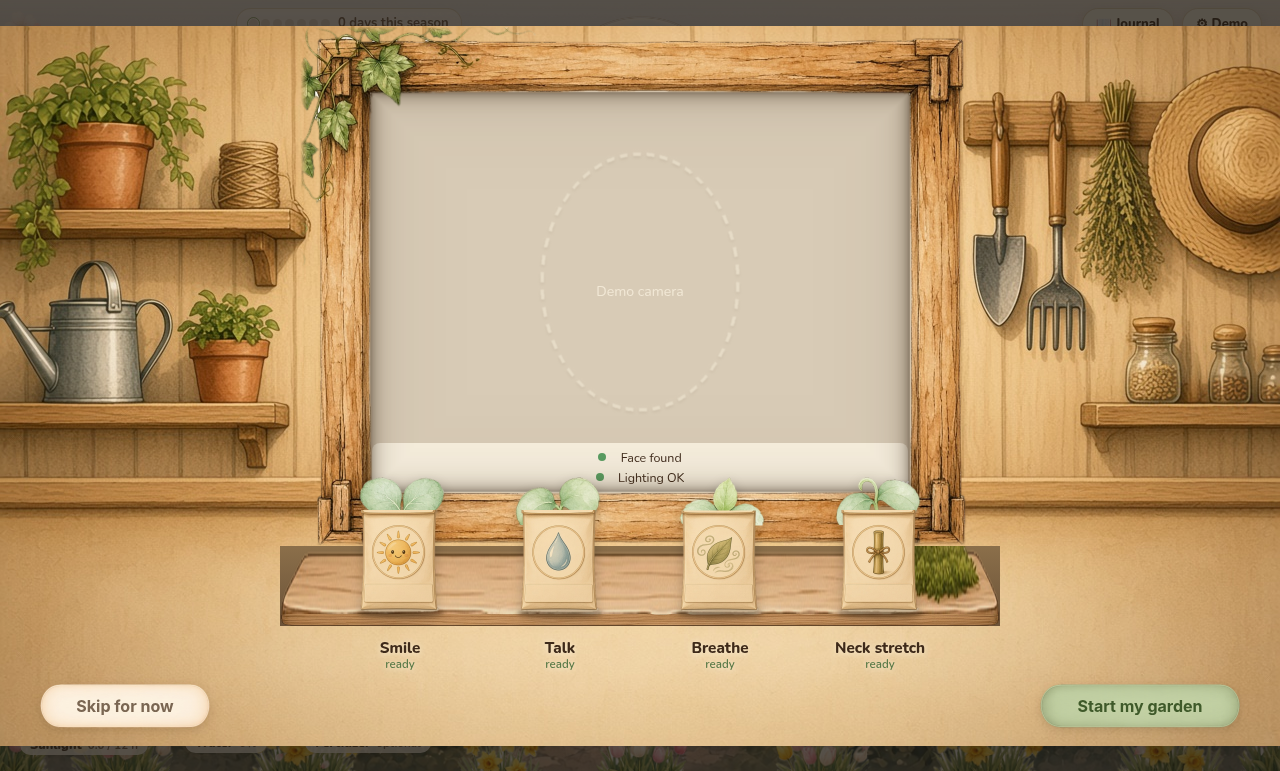
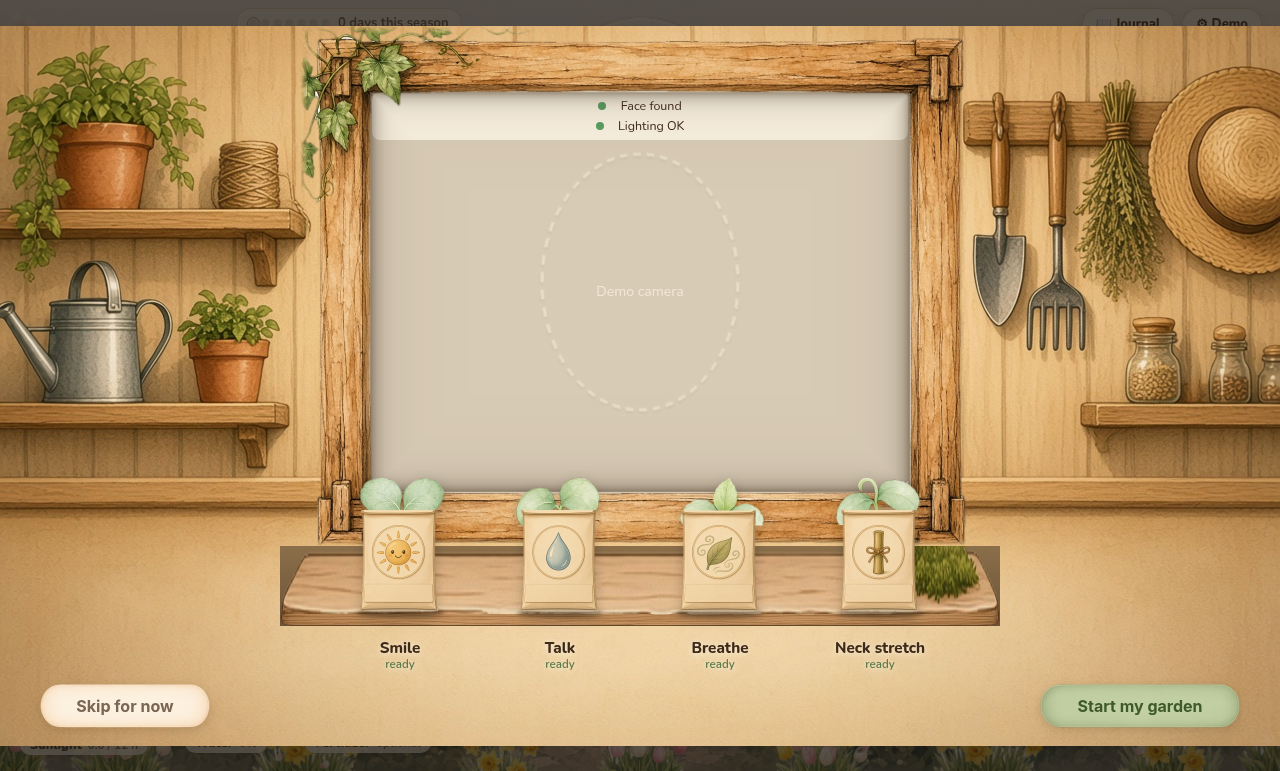
Polish camera-check denied flow, status placement, and listening glow
Denied state shows No camera (hides lighting), updated copy with Try again,
and a retry control that re-requests the camera. Status chip moves to the top
of the preview to clear packet sprouts; active packets use listening art with
a soft pulse instead of a box outline.

Changed region(s): [[0.2812, 0.5603, 0.7188, 0.6537], [0.2812, 0.0934, 0.7188, 0.1868]]

diff --git a/renderer/app.js b/renderer/app.js
@@ -20,7 +20,7 @@
         'meter-sun-val', 'meter-water-val', 'meter-fert-val', 'meter-stake-val', 'meter-sun-wrap', 'meter-water-wrap', 'meter-fert-wrap', 'meter-stake-wrap', 'step-panel', 'step-track',
         'ring-fg', 'ring-text', 'step-title', 'step-text', 'step-live', 'btn-skip', 'breath-guide', 'breath-orb', 'breath-halo', 'breath-word',
         'breath-sub', 'breath-rate', 'breath-count', 'stretch-guide', 'stretch-guide-box', 'stretch-sunflower', 'stretch-sunflower-stem', 'stretch-hint-left', 'stretch-hint-right', 'stretch-guide-full', 'stretch-ring', 'stretch-care-panel', 'stretch-care-title', 'stretch-care-text', 'stretch-care-live', 'stretch-care-actions', 'needs-card', 'needs-card-bg', 'needs-card-fallback', 'needs-plant-name', 'needs-rows', 'needs-bloom-stamp', 'needs-resting-stamp', 'needs-resting-fallback', 'btn-needs-done', 'idle-bar', 'idle-text', 'btn-plant-idle', 'btn-visit', 'btn-bed', 'day-chip-text', 'garden-clock', 'brand-logo-day', 'brand-logo-night', 'brand-fallback', 'plot-tip', 'float-layer', 'toast',
-        'screen-wellness', 'chk-adult', 'btn-wellness-ok', 'screen-camera-check', 'cc-stage', 'cc-backdrop', 'cc-window-frame', 'cc-sill', 'cc-face-outline', 'cc-tilt-left', 'cc-tilt-right', 'cc-note', 'cc-packets', 'cc-status-face', 'cc-status-light', 'cc-status-camera', 'cc-preview-wrap', 'cc-mock-slot', 'btn-cc-start', 'btn-cc-skip-now',
+        'screen-wellness', 'chk-adult', 'btn-wellness-ok', 'screen-camera-check', 'cc-stage', 'cc-backdrop', 'cc-window-frame', 'cc-sill', 'cc-face-outline', 'cc-tilt-left', 'cc-tilt-right', 'cc-note', 'cc-packets', 'cc-status-face', 'cc-status-light', 'cc-status-camera', 'cc-preview-wrap', 'cc-mock-slot', 'btn-cc-start', 'btn-cc-skip-now', 'btn-cc-retry',
         'screen-greeting', 'greet-date', 'greet-title', 'greet-status', 'plan-smile', 'plan-talk',
         'greet-note', 'btn-greet-plant', 'btn-begin', 'greet-fine', 'screen-picker', 'picker-target', 'seed-cards', 'btn-picker-close',
         'screen-summary', 'sum-card', 'sum-card-art', 'sum-date', 'sum-title', 'sum-sun', 'sum-water', 'sum-fert', 'sum-grew', 'sum-wait', 'sum-week', 'btn-sum-journal',
@@ -287,8 +287,13 @@
             els.stretchGuide.hidden = active !== 'stretch';
             if (active === 'breath') renderBreathRate();
             if (active === 'stretch') renderStretchHud();
-            CCUI.renderStatus(els.ccStatusFace, els.ccStatusLight, els.ccStatusCamera, snap);
+            CCUI.renderStatus(els.ccStatusFace, els.ccStatusLight, els.ccStatusCamera, snap, {
+                denied: cameraDeniedDemo || !!snap.cameraDenied || !!snap.noCamera,
+            });
             CCUI.renderPackets(els.ccPackets, snap, active, ART, artUrl, { denied: cameraDeniedDemo });
+            if (els.btnCcRetry) {
+                els.btnCcRetry.hidden = !(cameraDeniedDemo || snap.cameraDenied || snap.noCamera);
+            }
         }
         if (els.ccFaceOutline) {
             els.ccFaceOutline.classList.toggle('found', !!snap.faceFound);
@@ -346,6 +351,35 @@
         }
         if (source && source.setPhase) source.setPhase('camera-check-smile');
         renderCameraCheckUI(cameraCheckSession.update(0, buildCameraCheckInput()));
+    }
+
+    async function retryCameraCheck() {
+        if (!cameraCheckSession) return;
+        cameraDeniedDemo = false;
+        cameraCheckDemoLock = false;
+        signal.validation = 'Ok';
+        signal.faceGoneAt = 0;
+        const ok = await ensureSource();
+        if (!ok) {
+            cameraDeniedDemo = !config.mock;
+            renderCameraCheckUI(cameraCheckSession.update(0, buildCameraCheckInput()));
+            return;
+        }
+        try {
+            if (!sourceReady) {
+                await source.start();
+                sourceReady = true;
+            }
+            state.cameraCheckNote = null;
+            if (source.setPhase && cameraCheckSession.active) {
+                source.setPhase(`camera-check-${cameraCheckSession.active}`);
+            }
+            renderCameraCheckUI(cameraCheckSession.update(0, buildCameraCheckInput()));
+        } catch (e) {
+            CC.markCameraCheckRequired(state, `Camera could not start: ${e && e.message || e}`);
+            save();
+            renderCameraCheckUI(cameraCheckSession.update(0, buildCameraCheckInput()));
+        }
     }
 
     function finishCameraCheckFlow() {
@@ -2113,6 +2147,7 @@
     function ackWellness() { state.wellnessAck = true; save(); afterWellnessOrResume(); }
     if (els.btnCcStart) els.btnCcStart.addEventListener('click', finishCameraCheckFlow);
     if (els.btnCcSkipNow) els.btnCcSkipNow.addEventListener('click', finishCameraCheckFlow);
+    if (els.btnCcRetry) els.btnCcRetry.addEventListener('click', () => { void retryCameraCheck(); });
     els.btnGreetPlant.addEventListener('click', () => openPicker());
     els.btnBegin.addEventListener('click', beginVisit);
     els.btnPickerClose.addEventListener('click', closePicker);
@@ -2375,6 +2410,7 @@
         get stretchDemoSnap() { return stretchDemoSnap; },
         clock, gardenClock, nextDay, simulateDays, fillEmpty, setLightingOverride, openJournal, closeJournal, openPicker, closePicker, ackWellness: () => ackWellness(),
         openCameraCheck: () => openCameraCheck(),
+        retryCameraCheck: () => retryCameraCheck(),
         finishCameraCheck: () => finishCameraCheckFlow(),
         selectCameraCheck(key) {
             if (!cameraCheckSession || !key) return;

diff --git a/renderer/camera-check-ui.js b/renderer/camera-check-ui.js
@@ -135,11 +135,23 @@
         });
     }
 
-    function renderStatus(faceEl, lightEl, camEl, snap) {
-        faceEl.className = 'cc-status-row' + (snap.faceFound ? ' ok' : ' bad');
-        faceEl.innerHTML = '<span class="dot"></span><span>Face found</span>';
-        lightEl.className = 'cc-status-row' + (snap.lightingOk ? ' ok' : (snap.faceFound ? ' warn' : ''));
-        lightEl.innerHTML = '<span class="dot"></span><span>Lighting OK</span>';
+    function renderStatus(faceEl, lightEl, camEl, snap, opts) {
+        const denied = !!(opts && opts.denied) || !!(snap && snap.cameraDenied);
+        const noCamera = denied || !!(snap && snap.noCamera);
+        if (noCamera) {
+            faceEl.hidden = false;
+            faceEl.className = 'cc-status-row bad';
+            faceEl.innerHTML = '<span class="dot"></span><span>No camera</span>';
+            lightEl.hidden = true;
+            lightEl.textContent = '';
+        } else {
+            faceEl.hidden = false;
+            lightEl.hidden = false;
+            faceEl.className = 'cc-status-row' + (snap.faceFound ? ' ok' : ' bad');
+            faceEl.innerHTML = '<span class="dot"></span><span>Face found</span>';
+            lightEl.className = 'cc-status-row' + (snap.lightingOk ? ' ok' : (snap.faceFound ? ' warn' : ''));
+            lightEl.innerHTML = '<span class="dot"></span><span>Lighting OK</span>';
+        }
         const msg = snap.cameraMessage;
         if (msg && msg.text) {
             camEl.hidden = false;

diff --git a/renderer/camera-check-ui.css b/renderer/camera-check-ui.css
@@ -154,7 +154,8 @@
     position: absolute;
     left: 0;
     right: 0;
-    bottom: 10px;
+    top: 10px;
+    bottom: auto;
     width: auto;
     z-index: 3;
     display: flex;
@@ -257,8 +258,19 @@
 
 .cc-packet.on img,
 .cc-packet.on .cc-packet-fallback {
-    outline: 3px solid rgba(125, 154, 91, 0.75);
-    outline-offset: 2px;
+    outline: none;
+    animation: cc-packet-listen-glow 2.2s ease-in-out infinite;
+}
+
+@keyframes cc-packet-listen-glow {
+    0%, 100% {
+        filter: drop-shadow(0 4px 6px rgba(0, 0, 0, 0.2))
+            drop-shadow(0 0 8px rgba(125, 154, 91, 0.35));
+    }
+    50% {
+        filter: drop-shadow(0 4px 6px rgba(0, 0, 0, 0.2))
+            drop-shadow(0 0 18px rgba(144, 184, 98, 0.72));
+    }
 }
 
 .cc-packet-label {
@@ -386,6 +398,28 @@
 .cc-btn.skip:hover,
 .cc-btn.skip:focus-visible {
     border-image-source: url('../assets/ui/camera-check/btn-secondary-hover.png');
+}
+
+.cc-btn.retry {
+    left: 50%;
+    transform: translateX(-50%);
+    min-width: 160px;
+    color: #3f5a2a;
+    border-image-source: url('../assets/ui/camera-check/btn-primary.png');
+}
+
+.cc-btn.retry:hover,
+.cc-btn.retry:focus-visible {
+    transform: translateX(-50%) translateY(-1px);
+    border-image-source: url('../assets/ui/camera-check/btn-primary-hover.png');
+}
+
+.cc-btn.retry:active {
+    transform: translateX(-50%) translateY(1px);
+}
+
+.cc-btn.retry[hidden] {
+    display: none !important;
 }
 
 .cc-btn[data-fallback="1"] {

diff --git a/game/camera-check.js b/game/camera-check.js
@@ -33,10 +33,16 @@ function faceFound(sample) {
 function cameraStatusMessage(sample) {
     const s = sample || {};
     if (s.cameraDenied) {
-        return { level: 'error', text: 'Camera permission was denied. Allow the camera in system settings, or use keyboard mode from the banner below.' };
+        return {
+            level: 'error',
+            text: 'Camera permission was denied. Allow camera access in system settings, then tap Try again — or use Skip for now / Start my garden to continue.',
+        };
     }
     if (s.noCamera) {
-        return { level: 'error', text: 'No camera was found on this device.' };
+        return {
+            level: 'error',
+            text: 'No camera was found on this device. Tap Try again after connecting one, or use Skip for now / Start my garden to continue.',
+        };
     }
     if (s.sourceError) {
         return { level: 'warn', text: s.sourceError };
@@ -161,6 +167,8 @@ function createCameraCheckSession(options) {
             faceFound: faceFound(s),
             lightingOk: lightingOk !== false ? !!lightingOk : inferLightingOk(s),
             cameraMessage: cameraStatusMessage(s),
+            cameraDenied: !!s.cameraDenied,
+            noCamera: !!s.noCamera,
             stretchSnap: stretchSnap || (stretchFlow ? stretchFlow.snapshot() : null),
         };
     }

diff --git a/renderer/index.html b/renderer/index.html
@@ -174,6 +174,7 @@
                 <div id="cc-packets" class="cc-packets"></div>
                 <p id="cc-note" class="cc-note" hidden></p>
                 <button id="btn-cc-skip-now" class="cc-btn skip" type="button">Skip for now</button>
+                <button id="btn-cc-retry" class="cc-btn retry" type="button" hidden>Try again</button>
                 <button id="btn-cc-start" class="cc-btn start" type="button">Start my garden</button>
             </div>
         </div>
